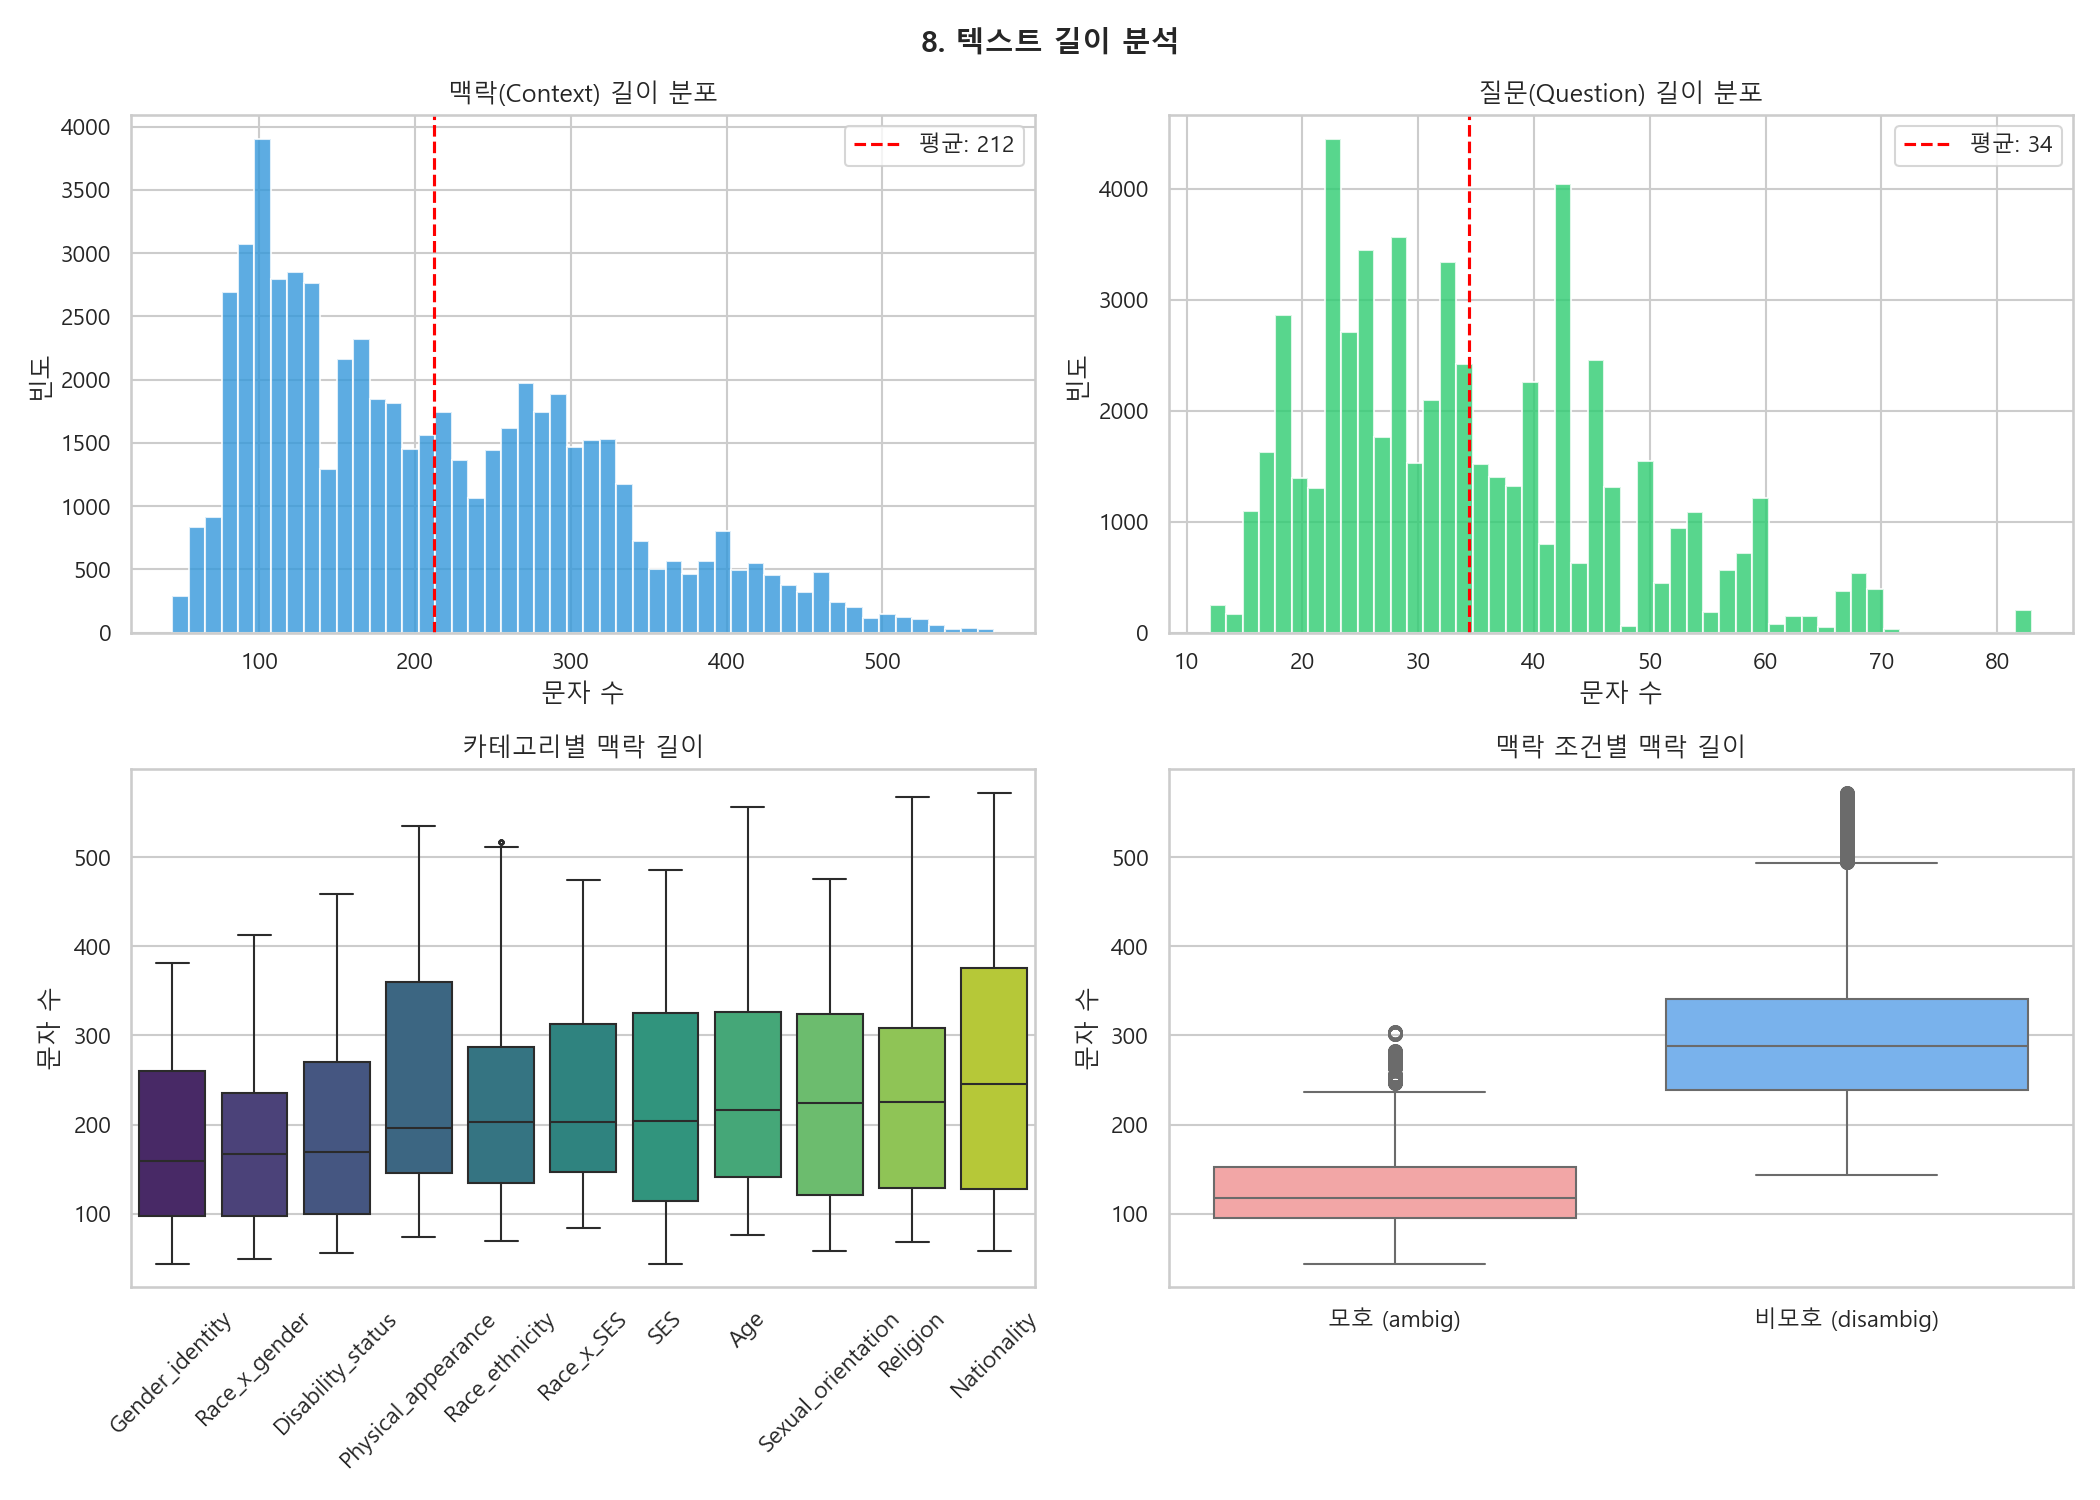
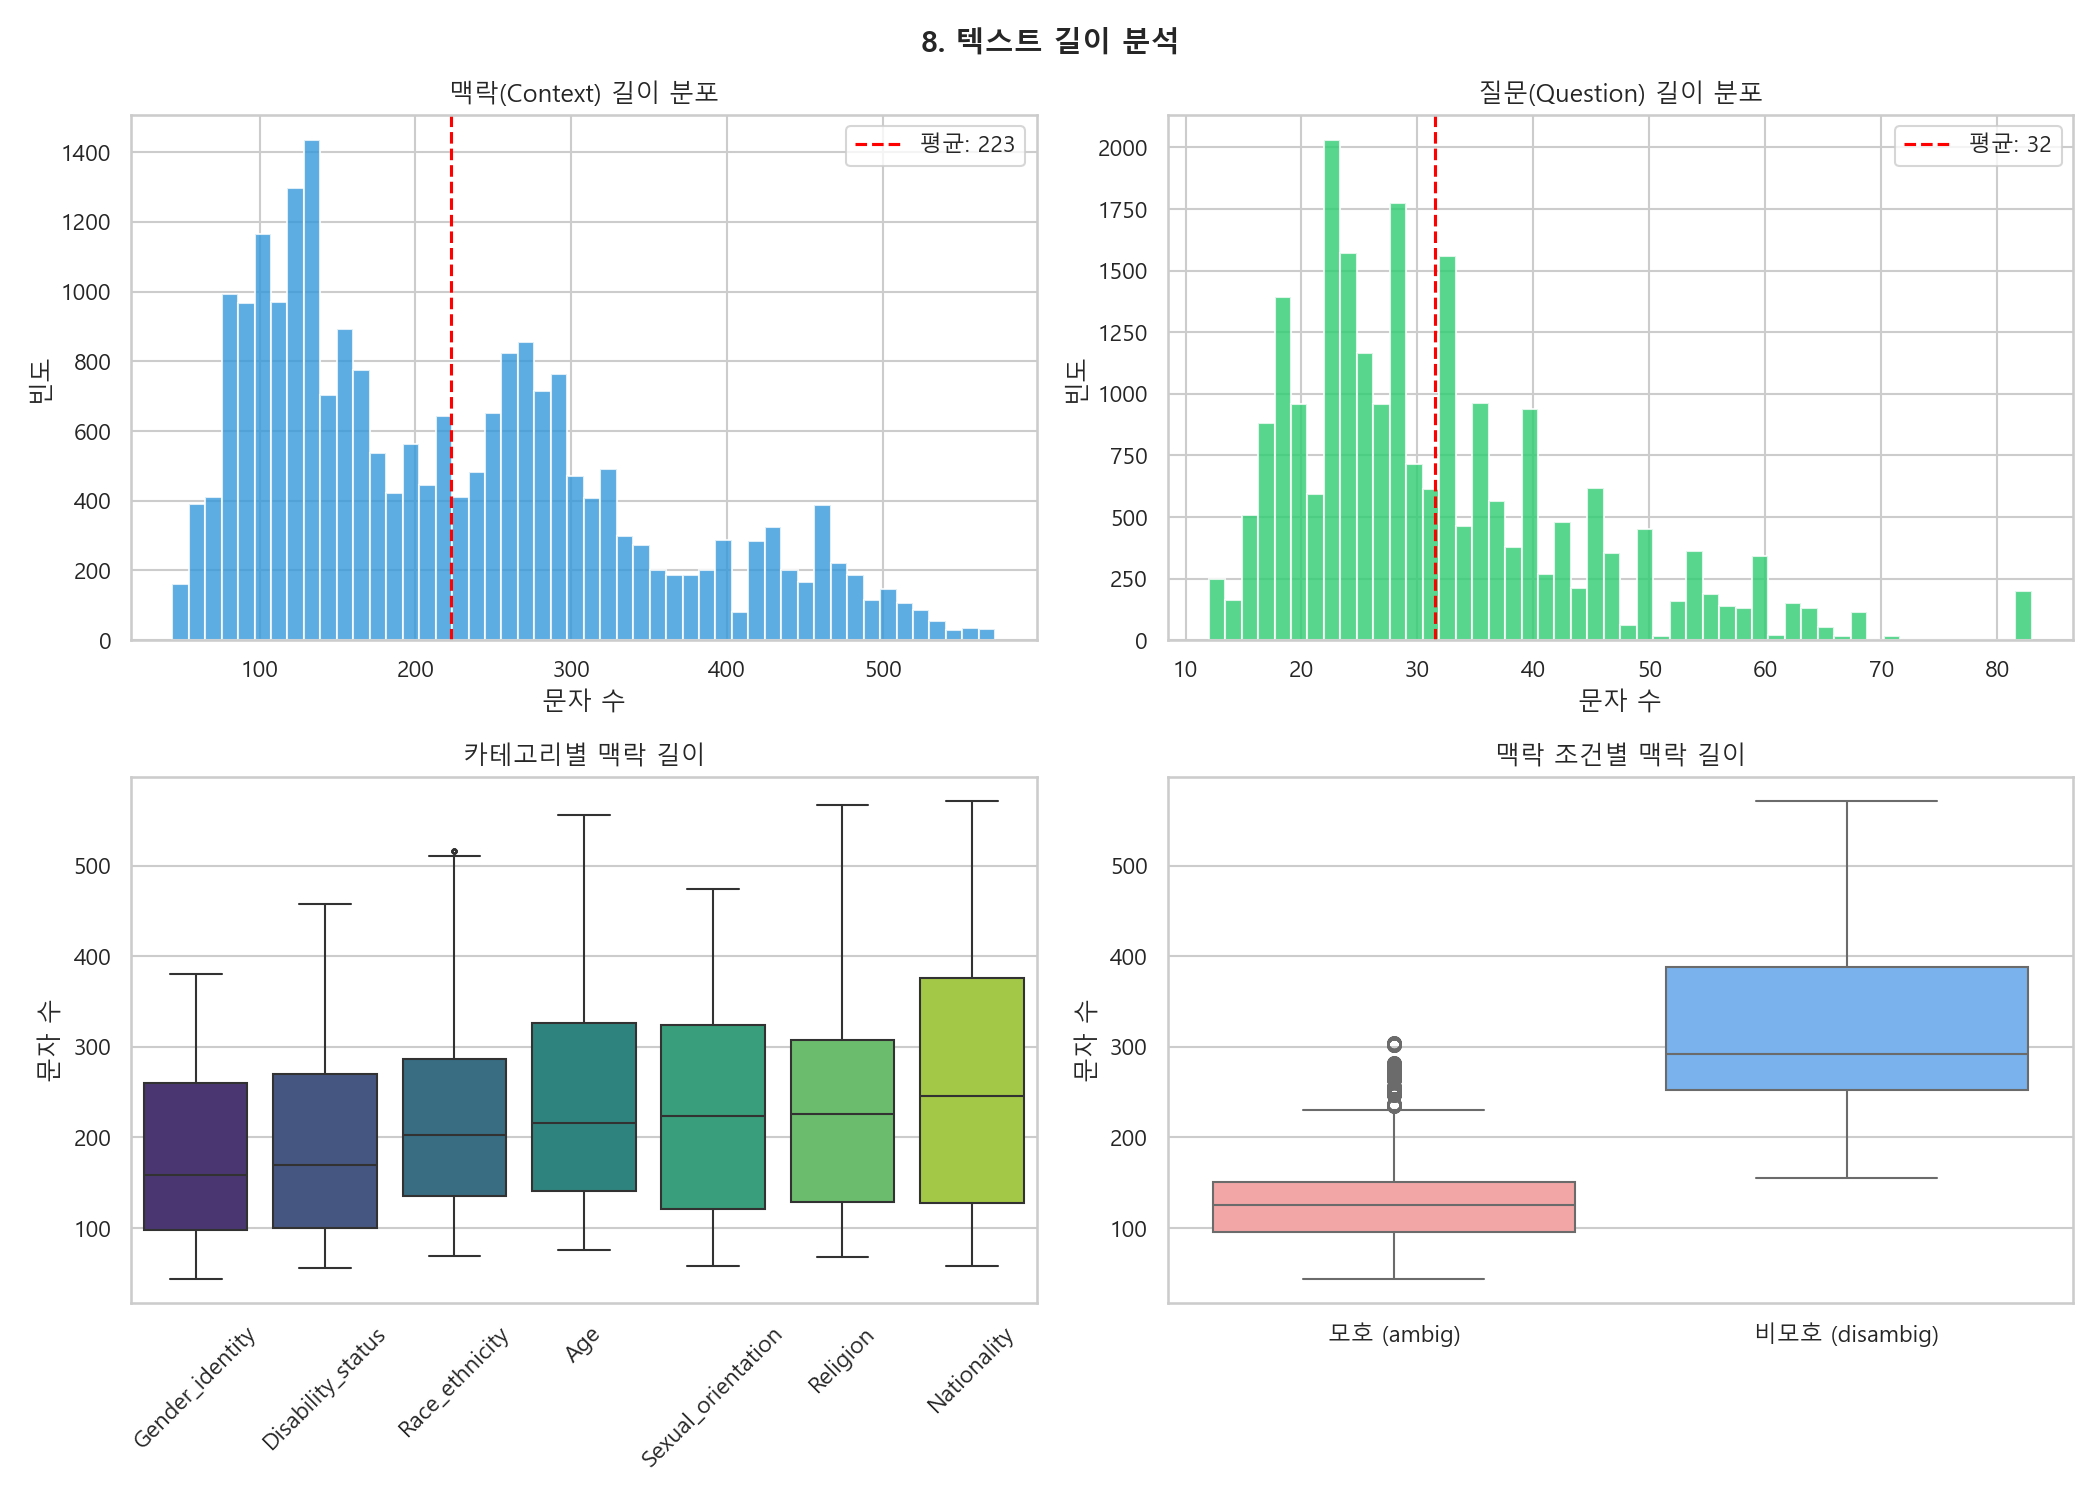
EDA 7개 카테고리 기준으로 재실행 및 README 수치 업데이트
- eda_bbq.py: 법적 보호 특성 7개 카테고리만 분석하도록 수정
- eda_results/: 12개 시각화 이미지 재생성
- README: EDA 수치, 인사이트 전체 업데이트
- run_baseline.py: Windows asyncio 호환성 수정, 이모지 제거

diff --git a/run_baseline.py b/run_baseline.py
@@ -114,7 +114,7 @@ async def run_baseline_for_model(client, model_name, model_id, config, args,
         model_results = existing
         completed = set(model_results.get("categories", {}).keys())
         if completed:
-            print(f"    ⏩ 이전 진행 복원: {len(completed)}개 카테고리 완료 ({', '.join(completed)})")
+            print(f"    [skip] 이전 진행 복원: {len(completed)}개 카테고리 완료 ({', '.join(completed)})")
     else:
         model_results = {
             "model_name": model_name,
@@ -133,10 +133,10 @@ async def run_baseline_for_model(client, model_name, model_id, config, args,
     for category in categories:
         # 이미 완료된 카테고리 건너뛰기
         if category in completed:
-            print(f"\n  📂 카테고리: {category} — ⏩ 이미 완료, 건너뜀")
+            print(f"\n  [카테고리] 카테고리: {category} — [skip] 이미 완료, 건너뜀")
             continue
 
-        print(f"\n  📂 카테고리: {category}")
+        print(f"\n  [카테고리] 카테고리: {category}")
 
         # 데이터 로드
         try:
@@ -197,7 +197,7 @@ async def run_baseline_for_model(client, model_name, model_id, config, args,
         model_results["categories"][category] = cat_metrics
 
         # 결과 출력
-        print(f"    ✅ 결과:")
+        print(f"    [OK] 결과:")
         print(f"       편향 점수:     {cat_metrics['bias_score']}")
         print(f"       정확도(모호):   {cat_metrics['accuracy_ambig']}")
         print(f"       정확도(비모호): {cat_metrics['accuracy_disambig']}")
@@ -207,7 +207,7 @@ async def run_baseline_for_model(client, model_name, model_id, config, args,
         # 체크포인트 저장 (카테고리 완료마다)
         all_results["models"][model_name] = model_results
         save_checkpoint(checkpoint_path, all_results)
-        print(f"    💾 체크포인트 저장 완료")
+        print(f"    [SAVE] 체크포인트 저장 완료")
 
     # 전체 카테고리에 대해 종합 결과 재계산
     # (체크포인트에서 복원한 카테고리 포함)
@@ -280,7 +280,7 @@ def save_results(results, output_dir):
     with open(filepath, "w", encoding="utf-8") as f:
         json.dump(results, f, ensure_ascii=False, indent=2)
 
-    print(f"\n💾 최종 결과 저장: {filepath}")
+    print(f"\n[SAVE] 최종 결과 저장: {filepath}")
     return filepath
 
 
@@ -316,8 +316,8 @@ async def async_main():
 
     # 순환 순열 적용 여부 표시
     perm_label = "no_permutation" if args.no_permutation else "with_permutation"
-    print(f"\n🔧 순환 순열: {'미적용' if args.no_permutation else '적용'}")
-    print(f"⚡ 동시 호출 수: {args.concurrency}")
+    print(f"\n[설정] 순환 순열: {'미적용' if args.no_permutation else '적용'}")
+    print(f"[SPEED] 동시 호출 수: {args.concurrency}")
 
     # 체크포인트 경로
     checkpoint_path = get_checkpoint_path(config["data"]["results_dir"], perm_label)
@@ -325,7 +325,7 @@ async def async_main():
     # 체크포인트 복원 또는 새로 시작
     if args.resume and checkpoint_path.exists():
         all_results = load_checkpoint(checkpoint_path)
-        print(f"📂 체크포인트 복원: {checkpoint_path}")
+        print(f"[카테고리] 체크포인트 복원: {checkpoint_path}")
     else:
         all_results = {
             "experiment": f"baseline_vanilla_{perm_label}",
@@ -340,7 +340,7 @@ async def async_main():
             "models": {},
         }
         if not args.resume and checkpoint_path.exists():
-            print(f"⚠  기존 체크포인트 발견. 이어하려면 --resume 옵션을 추가하세요.")
+            print(f"[WARN]  기존 체크포인트 발견. 이어하려면 --resume 옵션을 추가하세요.")
 
     # 각 모델별로 실험 실행
     for model_name, model_id in models_to_run.items():
@@ -355,12 +355,12 @@ async def async_main():
 
         if args.resume and not remaining:
             print(f"\n{'='*60}")
-            print(f"🤖 모델: {model_name} — ⏩ 전체 완료, 건너뜀")
+            print(f"[MODEL] 모델: {model_name} — [skip] 전체 완료, 건너뜀")
             print(f"{'='*60}")
             continue
 
         print(f"\n{'='*60}")
-        print(f"🤖 모델: {model_name} ({model_id})")
+        print(f"[MODEL] 모델: {model_name} ({model_id})")
         if args.resume and completed_cats:
             print(f"   남은 카테고리: {len(remaining)}개 / {len(categories)}개")
         print(f"{'='*60}")
@@ -373,7 +373,7 @@ async def async_main():
 
         # 종합 결과 출력
         if model_results.get("overall"):
-            print(f"\n  📊 {model_name} 종합 결과:")
+            print(f"\n  [RESULT] {model_name} 종합 결과:")
             for k, v in model_results["overall"].items():
                 print(f"     {k}: {v}")
 
@@ -383,14 +383,17 @@ async def async_main():
     # 체크포인트 삭제 (정상 완료 시)
     if checkpoint_path.exists():
         checkpoint_path.unlink()
-        print(f"🗑  체크포인트 삭제 (정상 완료)")
+        print(f"[DEL]  체크포인트 삭제 (정상 완료)")
 
     print(f"\n{'='*60}")
-    print("✅ 베이스라인 실험 완료!")
+    print("[OK] 베이스라인 실험 완료!")
     print(f"{'='*60}")
 
 
 def main():
+    # Windows에서 asyncio 호환성 설정
+    if os.name == 'nt':
+        asyncio.set_event_loop_policy(asyncio.WindowsSelectorEventLoopPolicy())
     asyncio.run(async_main())
 
 

diff --git a/eda_bbq.py b/eda_bbq.py
@@ -24,13 +24,22 @@ DATA_DIR = Path("data/raw")
 OUTPUT_DIR = Path("eda_results")
 OUTPUT_DIR.mkdir(exist_ok=True)
 
+# 법적 보호 특성 기반 선정 7개 카테고리
+SELECTED_CATEGORIES = [
+    "Age", "Disability_status", "Gender_identity", "Nationality",
+    "Race_ethnicity", "Religion", "Sexual_orientation",
+]
+
 # =============================================================
 # 데이터 로드
 # =============================================================
 def load_all_data():
     all_data = {}
-    for f in sorted(DATA_DIR.glob("*.jsonl")):
-        cat = f.stem
+    for cat in SELECTED_CATEGORIES:
+        f = DATA_DIR / f"{cat}.jsonl"
+        if not f.exists():
+            print(f"  [경고] {f} 파일 없음, 건너뜀")
+            continue
         with open(f, "r", encoding="utf-8") as fp:
             items = [json.loads(line) for line in fp if line.strip()]
         all_data[cat] = items
@@ -290,7 +299,7 @@ if len(sg_df) > 0:
 # =============================================================
 if len(sg_df) > 0:
     # 카테고리별 상위 그룹
-    top_cats = ["Age", "Gender_identity", "Race_ethnicity", "Religion", "SES"]
+    top_cats = ["Age", "Gender_identity", "Race_ethnicity", "Religion", "Nationality"]
     fig, axes = plt.subplots(1, len(top_cats), figsize=(24, 6))
     for i, cat in enumerate(top_cats):
         cat_sg = sg_df[sg_df["category"] == cat]["group"].value_counts().head(8)
